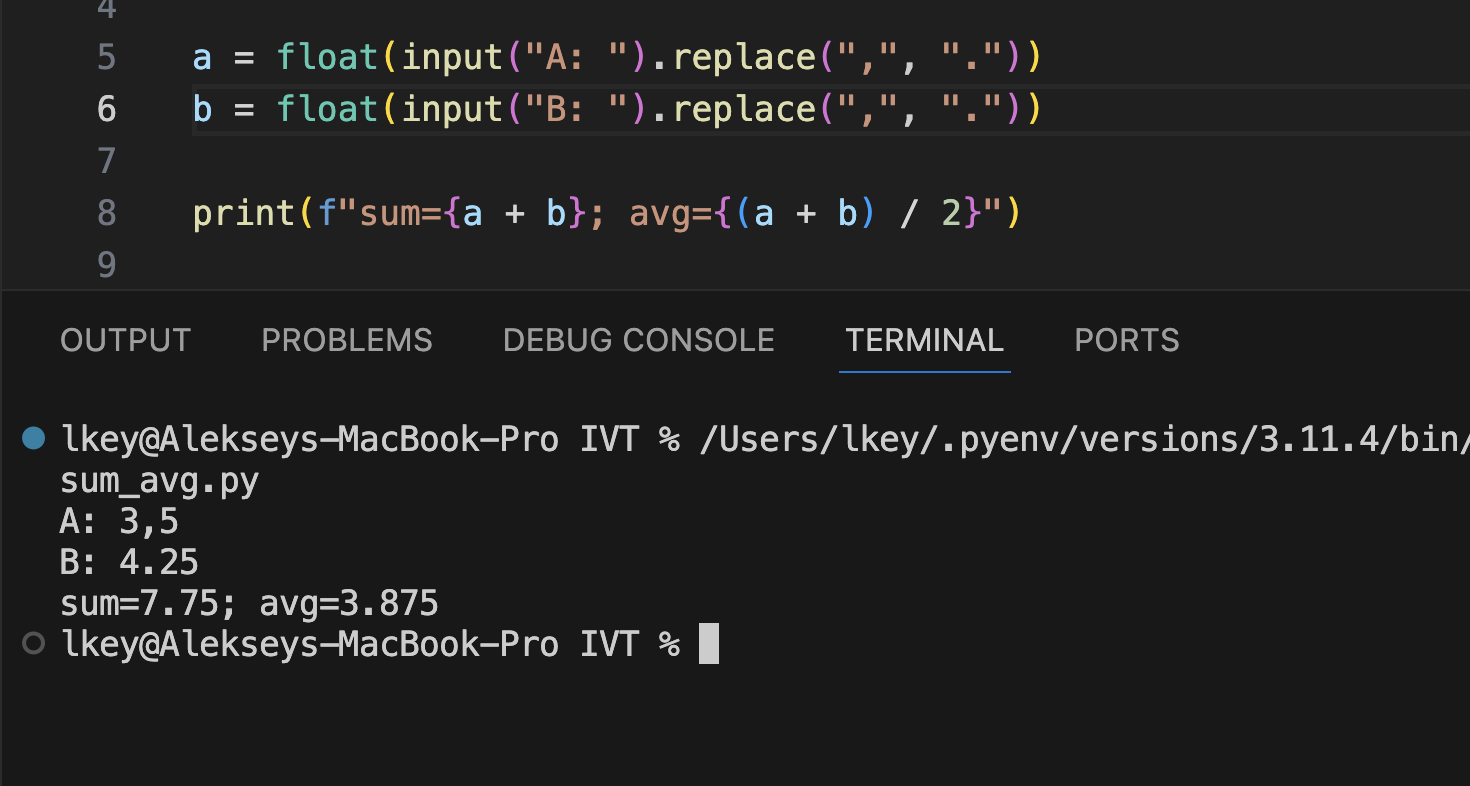
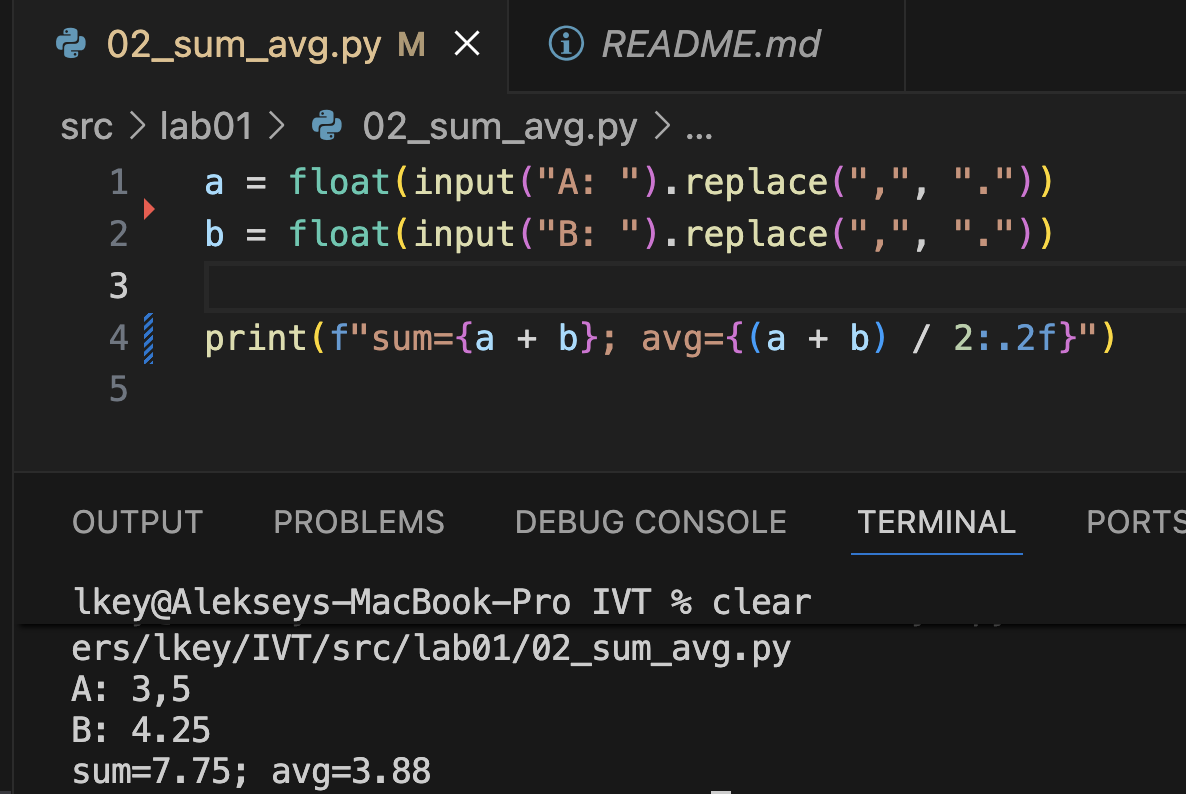
update 2nd task

diff --git a/src/lab01/02_sum_avg.py b/src/lab01/02_sum_avg.py
@@ -1,8 +1,4 @@
-# a: 3,5
-# b: 4.25
-# sum=7.75; avg=3.88
-
 a = float(input("A: ").replace(",", "."))
 b = float(input("B: ").replace(",", "."))
 
-print(f"sum={a + b}; avg={(a + b) / 2}")
+print(f"sum={a + b}; avg={(a + b) / 2:.2f}")

diff --git a/README.md b/README.md
@@ -10,14 +10,10 @@ print(f"Привет, {name}! Через год тебе будет {age + 1}.")
 
 ### Задание 2
 ```python
-# a: 3,5
-# b: 4.25
-# sum=7.75; avg=3.88
-
 a = float(input("A: ").replace(",", "."))
 b = float(input("B: ").replace(",", "."))
 
-print(f"sum={a + b}; avg={(a + b) / 2}")
+print(f"sum={a + b}; avg={(a + b) / 2:.2f}")
 ```
 ![Картинка 2](./images/lab01/02_sum_avg.png)
 
